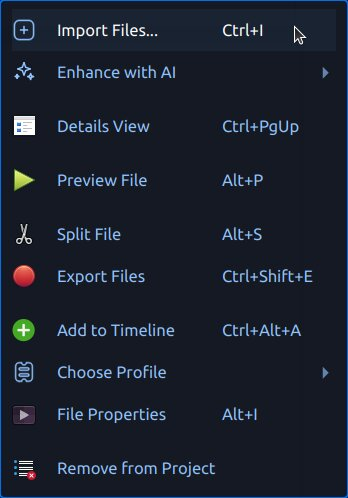
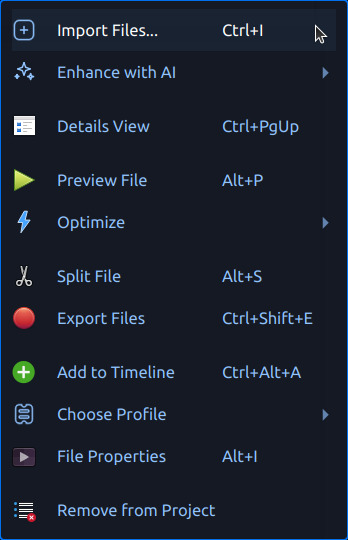
Updating file menu image used in docs, due to missing "Optimize" option in the menu. Updating README.md to add missing English PDF for website.

diff --git a/doc/README.md b/doc/README.md
@@ -92,7 +92,11 @@ Sphinx will load PO files from `doc/locale/` via `locale_dirs` in `doc/conf.py`.
   # list of language codes to skip for PDF (these all have issues)
   skip_langs=("ar" "hi" "ja" "ko" )
 
-  # Build PDFs (skip list) and copy into html folders
+  # Build English PDF and copy into the root html folder
+  make latexpdf BUILDDIR="_build/pdf/en"
+  cp -f "_build/pdf/en/latex/OpenShotVideoEditor.pdf" "_build/html/OpenShotVideoEditor.pdf"
+
+  # Build translated PDFs (skip list) and copy into html folders
   for lang in $langs; do
     if [[ " ${skip_langs[*]} " == *" $lang "* ]]; then
       echo "Skipping PDF for $lang"